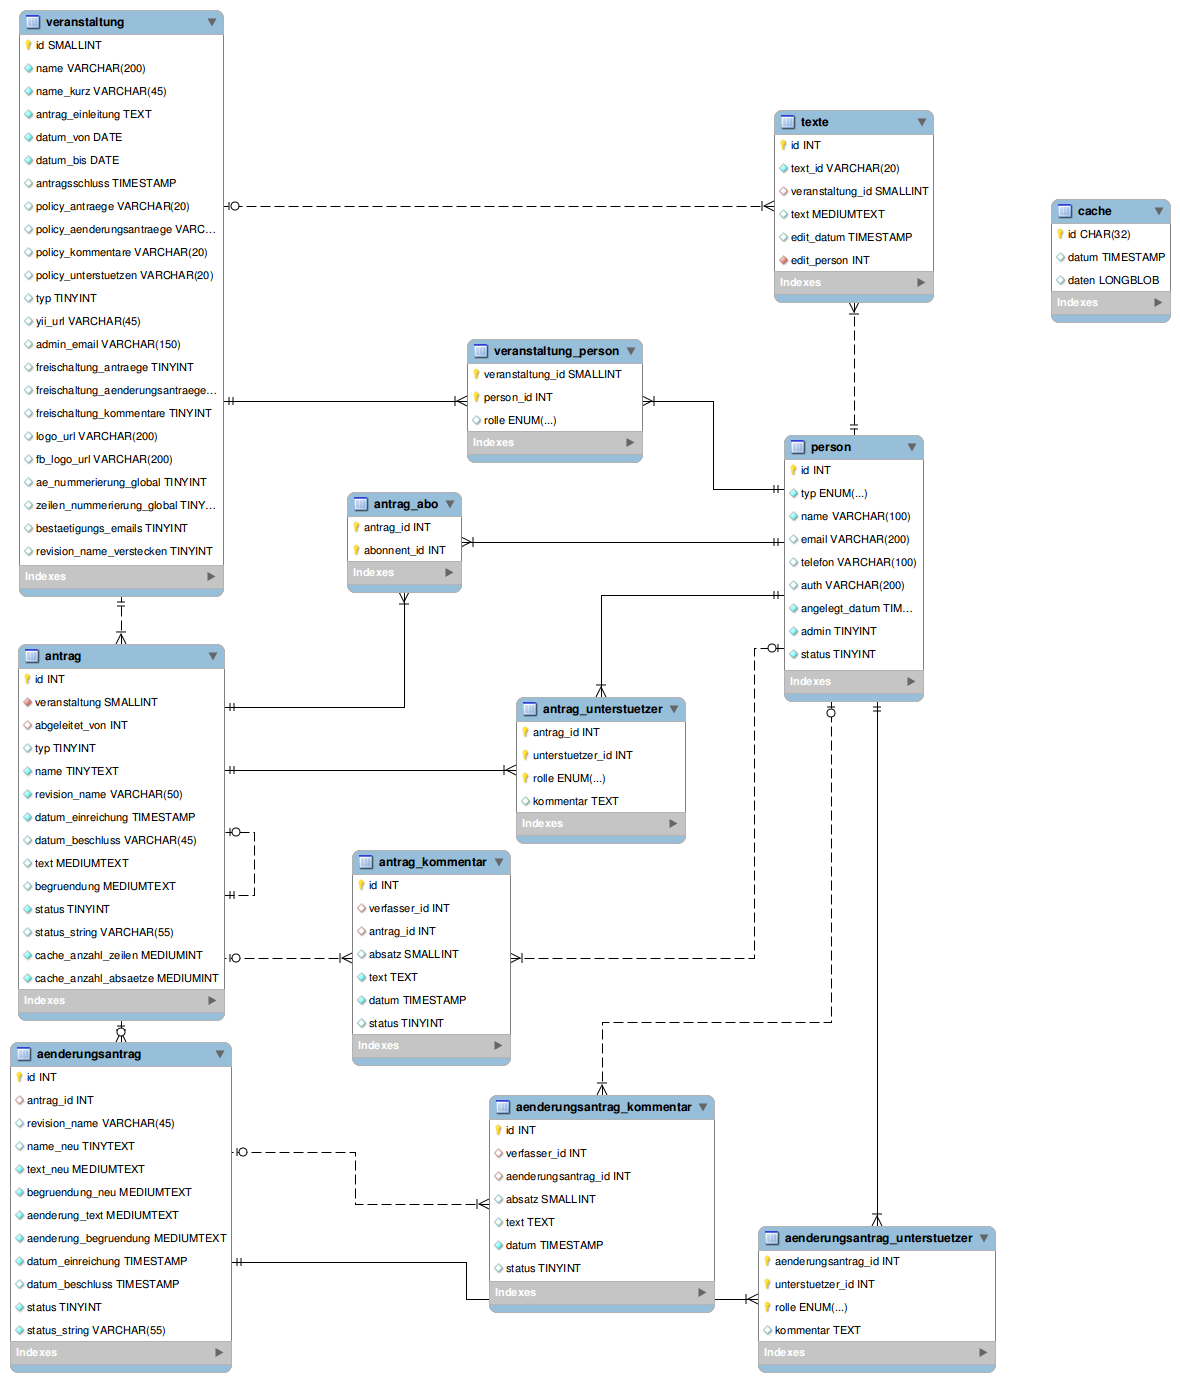
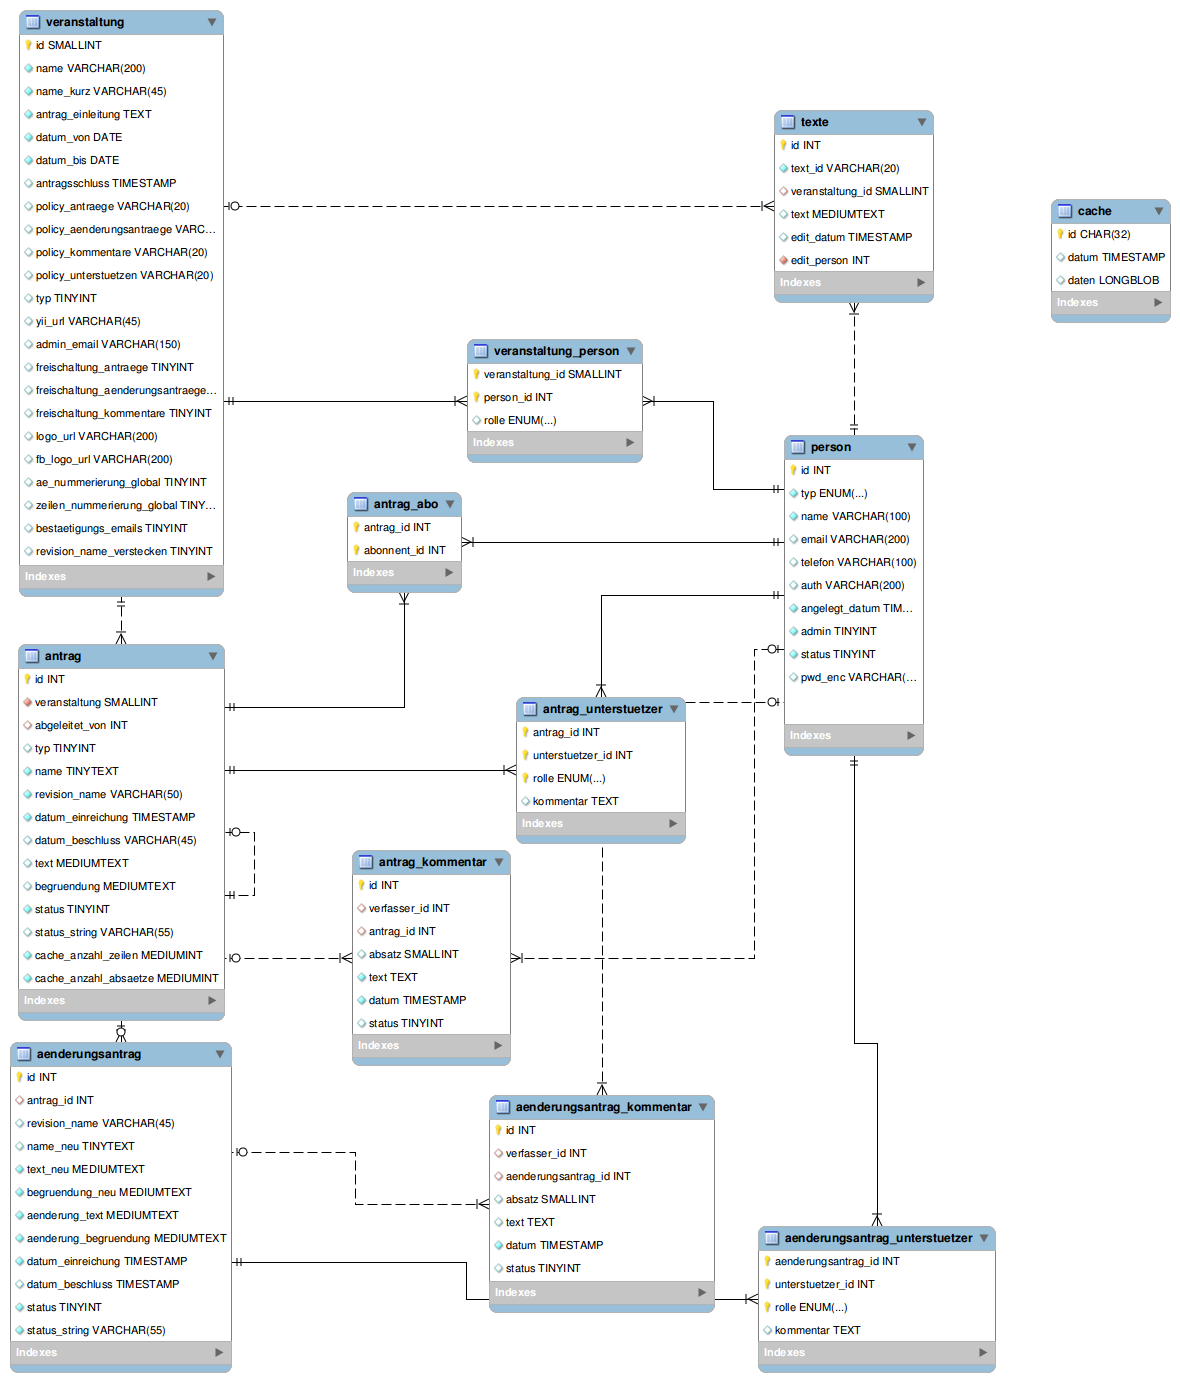
Quick&Dirty Passwort-Authentifizierung, wg. Wurzelwerk-Ausfall

Changed region(s): [[0.6407, 0.4667, 0.7932, 0.5601]]

diff --git a/protected/models/Person.php b/protected/models/Person.php
@@ -32,6 +32,118 @@ class Person extends BasePerson
         return Yii::t('app', 'Person|Personen', $n);
     }
 
+
+	/**
+	 * @param string $a
+	 * @param string $b
+	 * @return bool
+	 */
+	private function slow_equals($a, $b)
+	{
+		$diff = strlen($a) ^ strlen($b);
+		for($i = 0; $i < strlen($a) && $i < strlen($b); $i++)
+		{
+			$diff |= ord($a[$i]) ^ ord($b[$i]);
+		}
+		return $diff === 0;
+	}
+
+
+
+	/**
+	 * @static
+	 * @param string $password
+	 * @return string
+	 */
+	public static function create_hash($password)
+	{
+		// from: http://crackstation.net/hashing-security.htm
+		// format: algorithm:iterations:salt:hash
+		$salt = base64_encode(mcrypt_create_iv(24, MCRYPT_DEV_URANDOM));
+		return "sha256:1000:" .  $salt . ":" . base64_encode(static::pbkdf2("sha256", $password, $salt, 1000, 24, true));
+	}
+
+
+	/*
+	 * PBKDF2 key derivation function as defined by RSA's PKCS #5: https://www.ietf.org/rfc/rfc2898.txt
+	 * $algorithm - The hash algorithm to use. Recommended: SHA256
+	 * $password - The password.
+	 * $salt - A salt that is unique to the password.
+	 * $count - Iteration count. Higher is better, but slower. Recommended: At least 1000.
+	 * $key_length - The length of the derived key in bytes.
+	 * $raw_output - If true, the key is returned in raw binary format. Hex encoded otherwise.
+	 * Returns: A $key_length-byte key derived from the password and salt.
+	 *
+	 * Test vectors can be found here: https://www.ietf.org/rfc/rfc6070.txt
+	 *
+	 * This implementation of PBKDF2 was originally created by https://defuse.ca
+	 * With improvements by http://www.variations-of-shadow.com
+	 */
+	/**
+	 * @param string $algorithm
+	 * @param string $password
+	 * @param string $salt
+	 * @param int $count
+	 * @param int $key_length
+	 * @param bool $raw_output
+	 * @return string
+	 */
+	private static function pbkdf2($algorithm, $password, $salt, $count, $key_length, $raw_output = false)
+	{
+		$algorithm = strtolower($algorithm);
+		if(!in_array($algorithm, hash_algos(), true))
+			die('PBKDF2 ERROR: Invalid hash algorithm.');
+		if($count <= 0 || $key_length <= 0)
+			die('PBKDF2 ERROR: Invalid parameters.');
+
+		$hash_length = strlen(hash($algorithm, "", true));
+		$block_count = ceil($key_length / $hash_length);
+
+		$output = "";
+		for($i = 1; $i <= $block_count; $i++) {
+			// $i encoded as 4 bytes, big endian.
+			$last = $salt . pack("N", $i);
+			// first iteration
+			$last = $xorsum = hash_hmac($algorithm, $last, $password, true);
+			// perform the other $count - 1 iterations
+			for ($j = 1; $j < $count; $j++) {
+				$xorsum ^= ($last = hash_hmac($algorithm, $last, $password, true));
+			}
+			$output .= $xorsum;
+		}
+
+		if($raw_output)
+			return substr($output, 0, $key_length);
+		else
+			return bin2hex(substr($output, 0, $key_length));
+	}
+
+
+
+	/**
+	 * @param string $password
+	 * @return bool
+	 */
+	public function validate_password($password)
+	{
+		$params = explode(":", $this->pwd_enc);
+		if(count($params) < 4)
+			return false;
+		$pbkdf2 = base64_decode($params[3]);
+		return $this->slow_equals(
+			$pbkdf2,
+			static::pbkdf2(
+				$params[0],
+				$password,
+				$params[2],
+				(int)$params[1],
+				strlen($pbkdf2),
+				true
+			)
+		);
+	}
+
+
 	/*
     public function attributeLabels() {
         $ret = parent::attributeLabels();

diff --git a/protected/controllers/SiteController.php b/protected/controllers/SiteController.php
@@ -366,14 +366,47 @@ class SiteController extends AntragsgruenController
 		$model = new OAuthLoginForm();
 		if (isset($_REQUEST["OAuthLoginForm"])) $model->attributes = $_REQUEST["OAuthLoginForm"];
 
-		/** @var LightOpenID $loid */
-		$loid = Yii::app()->loid->load();
-		if (isset($_REQUEST["openid_mode"])) {
+		if (isset($_REQUEST["password"]) && isset($_REQUEST["OAuthLoginForm"]["wurzelwerk"])) {
+			$username = "openid:https://" . $_REQUEST["OAuthLoginForm"]["wurzelwerk"] . ".netzbegruener.in/";
+
+			/** @var Person $user  */
+			$user = Person::model()->findByAttributes(array("auth" => $username));
+			if ($user === null) {
+				Yii::app()->user->setFlash("error", "Benutzername nicht gefunden.");
+				$this->render('login', array("model" => $model));
+				return;
+			}
+			$correct = $user->validate_password($_REQUEST["password"]);
+			if ($correct) {
+				$identity = new AntragUserIdentityPasswd($_REQUEST["OAuthLoginForm"]["wurzelwerk"]);
+				Yii::app()->user->login($identity);
+
+				if ($user->admin) {
+					//$openid->setState("role", "admin");
+					Yii::app()->user->setState("role", "admin");
+				}
+
+				Yii::app()->user->setState("person_id", $user->id);
+				Yii::app()->user->setFlash('success', 'Willkommen!');
+				if ($back == "") $back = Yii::app()->homeUrl;
+
+				$this->redirect($back);
+			} else {
+				Yii::app()->user->setFlash("error", "Falsches Passwort.");
+				$this->render('login', array("model" => $model));
+				return;
+			}
+
+			//Yii::app()->user->login($us);
+			die();
+		} elseif (isset($_REQUEST["openid_mode"])) {
+			/** @var LightOpenID $loid */
+			$loid = Yii::app()->loid->load();
 			if ($_REQUEST['openid_mode'] == 'cancel') {
 				$err = Yii::t('core', 'Authorization cancelled');
 			} else {
 				try {
-					$us = new AntragUserIdentity($loid);
+					$us = new AntragUserIdentityOAuth($loid);
 					if ($us->authenticate()) {
 						Yii::app()->user->login($us);
 						$user = Person::model()->findByAttributes(array("auth" => $us->getId()));
@@ -417,6 +450,8 @@ class SiteController extends AntragsgruenController
 
 			if (!empty($err)) Yii::app()->user->setFlash("error", $err);
 		} elseif (isset($_REQUEST["OAuthLoginForm"])) {
+			/** @var LightOpenID $loid */
+			$loid = Yii::app()->loid->load();
 			if ($model->wurzelwerk != "") $loid->identity = "https://" . $model->wurzelwerk . ".netzbegruener.in/";
 			else $loid->identity = $model->openid_identifier;
 

diff --git a/protected/models/_base/BasePerson.php b/protected/models/_base/BasePerson.php
@@ -18,6 +18,7 @@
  * @property string $angelegt_datum
  * @property integer $admin
  * @property integer $status
+ * @property string $pwd_enc
  *
  * @property AenderungsantragKommentar[] $aenderungsantragKommentare
  * @property AenderungsantragUnterstuetzer[] $aenderungsantragUnterstuetzer
@@ -51,8 +52,8 @@ abstract class BasePerson extends GxActiveRecord {
 			array('typ', 'length', 'max'=>12),
 			array('name, telefon', 'length', 'max'=>100),
 			array('email, auth', 'length', 'max'=>200),
-			array('email, telefon, auth', 'default', 'setOnEmpty' => true, 'value' => null),
-			array('id, typ, name, email, telefon, auth, angelegt_datum, admin, status', 'safe', 'on'=>'search'),
+			array('email, telefon, auth, pwd_enc', 'default', 'setOnEmpty' => true, 'value' => null),
+			array('id, typ, name, email, telefon, auth, pwd_enc, angelegt_datum, admin, status', 'safe', 'on'=>'search'),
 		);
 	}
 
@@ -82,6 +83,7 @@ abstract class BasePerson extends GxActiveRecord {
 			'email' => Yii::t('app', 'Email'),
 			'telefon' => Yii::t('app', 'Telefon'),
 			'auth' => Yii::t('app', 'Auth'),
+			'pwd_enc' => Yii::t('app', 'Passwort-Hash'),
 			'angelegt_datum' => Yii::t('app', 'Angelegt Datum'),
 			'admin' => Yii::t('app', 'Admin'),
 			'status' => Yii::t('app', 'Status'),

diff --git a/protected/components/AntragUserIdentityPasswd.php b/protected/components/AntragUserIdentityPasswd.php
@@ -1,0 +1,51 @@
+<?php
+
+class AntragUserIdentityPasswd extends CBaseUserIdentity
+{
+	/** @var string */
+	private $username;
+
+	/**
+	 * @param string $username
+	 */
+	public function __construct($username)
+	{
+		$this->username = $username;
+	}
+
+
+	/**
+	 * @return Bool
+	 */
+	public function authenticate()
+	{
+		return false;
+	}
+
+
+	/**
+	 * @return string
+	 */
+	public function getId()
+	{
+		return "openid:https://" . $this->username . ".netzbegruener.in/";
+	}
+
+	/**
+	 * @return string
+	 */
+	public function getName()
+	{
+		return $this->username;
+	}
+
+	/**
+	 * @return string
+	 */
+	public function getEmail()
+	{
+		return "";
+	}
+
+
+}

diff --git a/protected/views/site/login.php b/protected/views/site/login.php
@@ -27,6 +27,8 @@ $this->breadcrumbs = array(
 
 		<?php echo $form->textFieldRow($model, 'wurzelwerk', array('class'=> 'span3')); ?>
 
+		<label>Passwort:<br><input type="password" value="" autocomplete="false" name="password"></label>
+
         <br><br><em>oder</em><br><br>
 
 		<?php echo $form->textFieldRow($model, 'openid_identifier', array('class'=> 'span3')); ?>

diff --git a/protected/components/AntragUserIdentityOAuth.php b/protected/components/AntragUserIdentityOAuth.php
@@ -1,6 +1,6 @@
 <?php
 
-class AntragUserIdentity extends CBaseUserIdentity
+class AntragUserIdentityOAuth extends CBaseUserIdentity
 {
 	/**
 	 * @var LightOpenID
